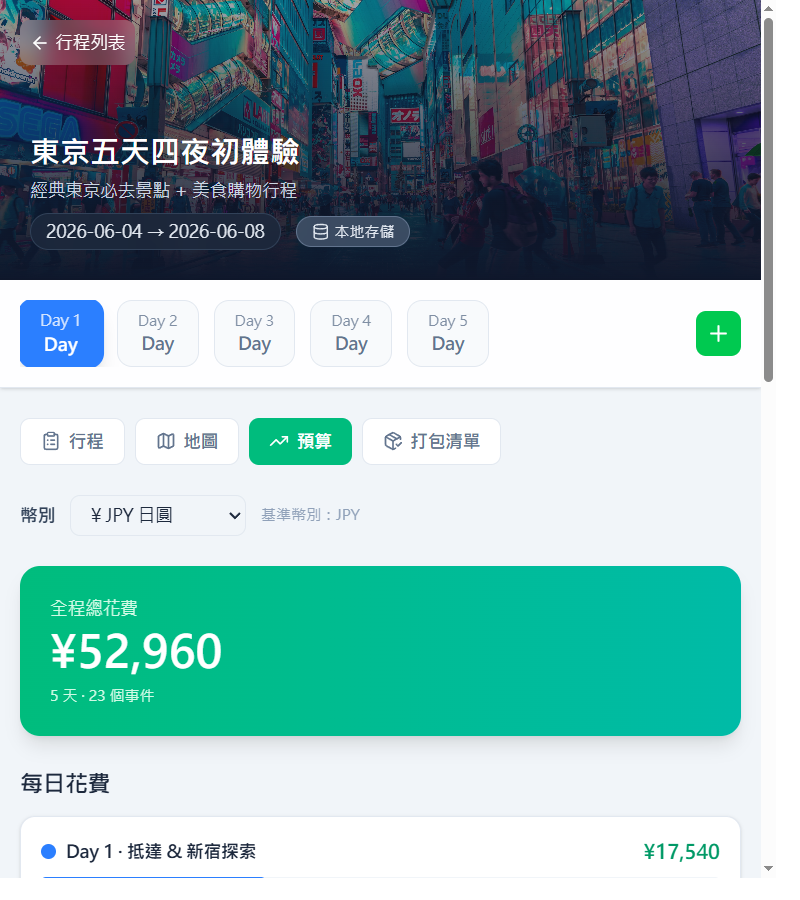
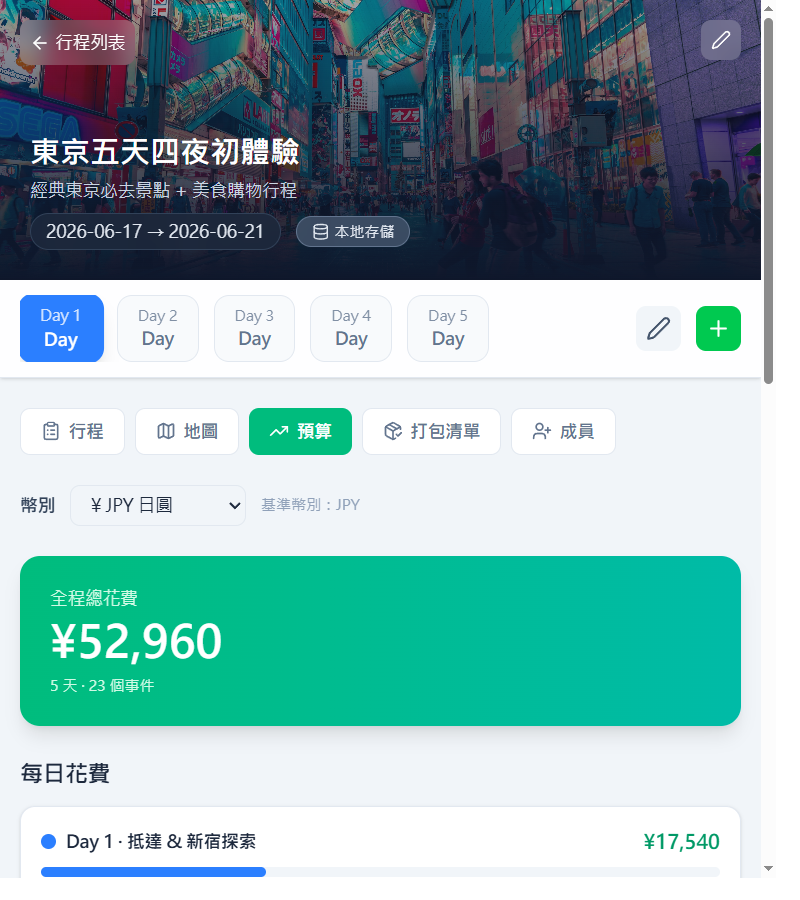
docs: 更新 README 與產品展示截圖
- 新增成員管理截圖
- 更新所有頁面截圖為最新版本
- README 反映最新功能（成員管理、時間範圍、行程編輯）
- 移除組別相關描述，更新專案結構
- 部署平台改為 Cloudflare Pages

diff --git a/README.md b/README.md
@@ -1,7 +1,9 @@
 # Trip Planner ✈
 
 > React + Vite + Supabase 打造的一站式旅遊行程規劃 SPA。
-> 支援多行程管理、行程時間軸、互動地圖、多幣別預算追蹤、打包清單，以及雲端同步。
+> 支援多行程管理、行程時間軸、成員管理、互動地圖、多幣別預算追蹤、打包清單，以及雲端同步。
+>
+> 🌐 **線上版本**：<https://tokyo-trip-exq.pages.dev/>
 
 ---
 
@@ -18,9 +20,14 @@
 ![行程列表](docs/screenshots/02-trip-list.png)
 
 ### 行程時間軸
-依天/時段排列事件，支援拖曳排序、跨天移動、智慧分類。
+依天/時段排列事件，左側時間軸搭配右側事件卡片，支援拖曳排序、跨天移動、智慧分類。
 
 ![行程時間軸](docs/screenshots/03-timeline.png)
+
+### 成員管理
+建立旅伴名單，並可在事件中指派參與成員。
+
+![成員管理](docs/screenshots/07-members.png)
 
 ### 預算追蹤（多幣別換算）
 所有花費以 JPY 為基準儲存，可即時切換 TWD / USD / EUR / KRW 顯示。
@@ -45,8 +52,10 @@
 
 - **多行程管理**：可建立多筆旅行，快速切換不同旅程
 - **行程編排**：支援 Day / Event 新增、編輯、刪除、拖曳排序
+- **行程日期編輯**：建立行程後可隨時調整標題、描述、起訖日期
+- **時間範圍**：事件可設定開始與結束時間，重疊時段自動並排顯示
 - **智慧分類**：輸入關鍵字自動分類（食物、交通、購物等）
-- **動態組別**：建立分組（如「美食組」），支援分組時間軸並排顯示
+- **成員管理**：建立旅伴名單，並將成員指派給個別事件
 - **地圖整合**：Leaflet + Nominatim 地理編碼，標記地點並顯示路線
 - **多幣別預算**：以 JPY 為基準，即時換算 TWD / USD / EUR / KRW（1 小時快取）
 - **打包清單**：新增、勾選、刪除，預設常用物品一鍵加入
@@ -63,7 +72,7 @@
 | 地圖 | Leaflet + react-leaflet + OpenStreetMap Nominatim |
 | 拖曳排序 | @dnd-kit |
 | 匯率 API | open.er-api.com（1 小時 localStorage 快取）|
-| 部署 | GitHub Pages（`npm run deploy`）|
+| 部署 | Cloudflare Pages（`npm run deploy`）|
 | 語系 | zh-TW |
 
 ## 專案結構
@@ -73,10 +82,11 @@ src/
   components/
     AuthPage.jsx          # 登入 / 註冊
     TripList.jsx           # 行程列表 + 範本
-    TripDetail.jsx         # 行程詳情（時間軸 + 事件 CRUD）
+    TripDetail.jsx         # 行程詳情（時間軸 + 事件 CRUD + 日期編輯）
     TripMap.jsx            # Leaflet 地圖
-    EventTimelineGroup.jsx # 分組時間軸
-    GroupSelector.jsx      # 組別管理
+    EventTimelineGroup.jsx # 時間軸事件卡片
+    MemberManager.jsx      # 成員名單管理 + 事件成員指派
+    LocationSearch.jsx     # 地點搜尋（Nominatim）
     tabs/
       BudgetTab.jsx        # 預算分頁（多幣別換算）
       PackingTab.jsx       # 打包清單分頁
@@ -114,9 +124,7 @@ VITE_SUPABASE_ANON_KEY=your_supabase_anon_key
 npm run dev
 ```
 
-預設網址：
-
-http://localhost:5173/tokyo-trip/
+預設網址：http://localhost:5173/
 
 ### 4) 產生建置
 
@@ -128,7 +136,7 @@ npm run build
 
 請確認下列條件：
 
-1. public.users, trips, days, events, groups 資料表已建立
+1. public.users, trips, days, events, trip_members 資料表已建立
 2. RLS 與 Policy 已啟用（authenticated user 可操作自己的資料）
 3. auth.users -> public.users 觸發器存在
 4. events 表有 cost 欄位
@@ -137,6 +145,8 @@ npm run build
 
 ```sql
 ALTER TABLE public.events ADD COLUMN IF NOT EXISTS cost numeric DEFAULT 0;
+ALTER TABLE public.events ADD COLUMN IF NOT EXISTS end_time TEXT;
+ALTER TABLE public.events ADD COLUMN IF NOT EXISTS assignees JSONB DEFAULT '[]';
 ```
 
 ```sql
@@ -157,23 +167,24 @@ WHERE table_schema = 'public'
 
 1. 進入首頁，選擇登入或使用本地模式
 2. 建立新行程或套用範本（東京 / 首爾 / 大阪京都）
-3. 進入行程詳情，新增 Day 與 Event（含時間、地點、花費）
-4. 切換「地圖」分頁查看標記與路線
-5. 切換「預算」分頁，切換幣別查看即時換算
-6. 切換「打包清單」分頁，勾選已完成物品
-7. 回行程列表，刷新頁面確認資料可回載
+3. 進入行程詳情，新增 Day 與 Event（含時間範圍、地點、花費）
+4. 點擊右上角編輯按鈕可修改行程標題、描述、起訖日期
+5. 使用「成員」功能新增旅伴，並在事件中指派成員
+6. 切換「地圖」分頁查看標記與路線
+7. 切換「預算」分頁，切換幣別查看即時換算
+8. 切換「打包清單」分頁，勾選已完成物品
+9. 回行程列表，刷新頁面確認資料可回載
 
 ## 貢獻指南
 
 請參閱 [CONTRIBUTING.md](CONTRIBUTING.md)。
 所有 commit 須遵循 Conventional Commits 規範。
-5. 預算與匯率換算正常
-6. 重新整理後資料仍可從雲端回載
 
 ## 專案狀態
 
 - 核心功能：完成
 - 雲端整合：完成
+- 部署平台：Cloudflare Pages
 - 最終驗證：通過
 
 ## 授權
